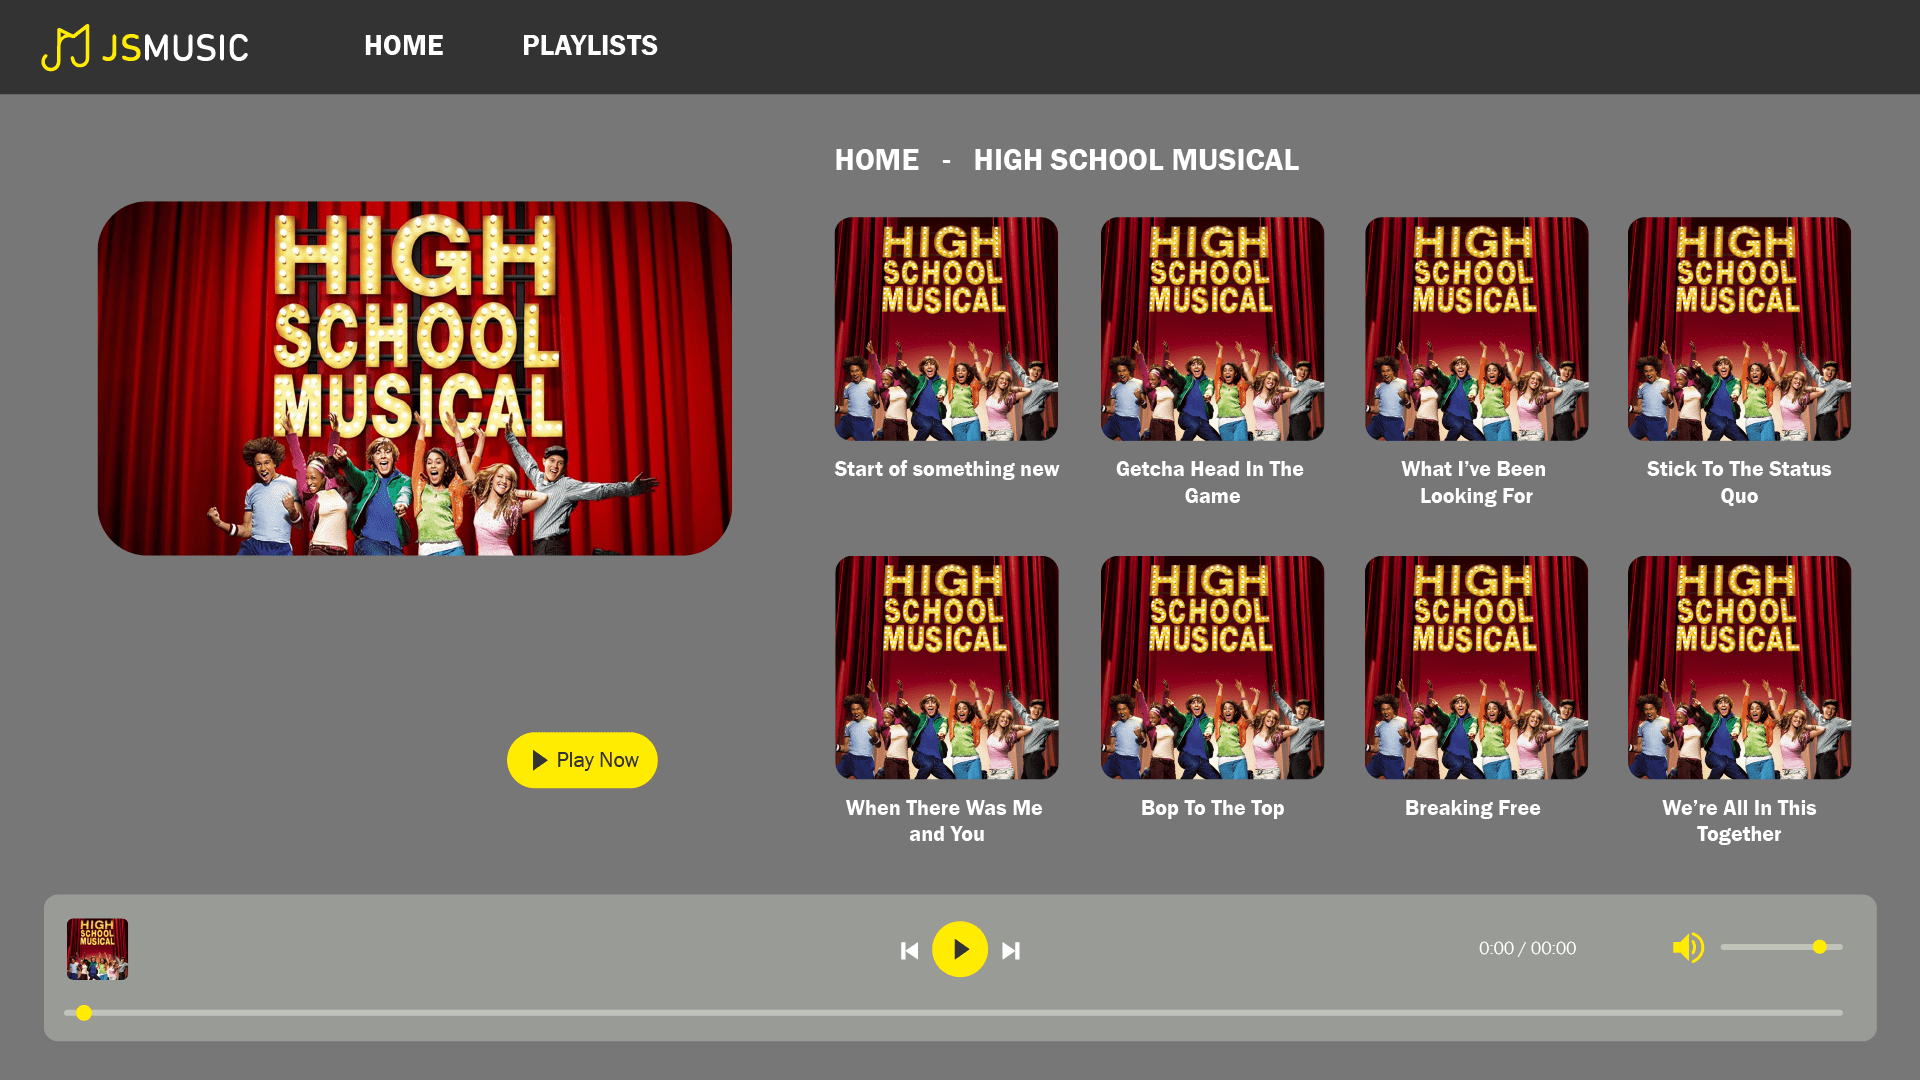
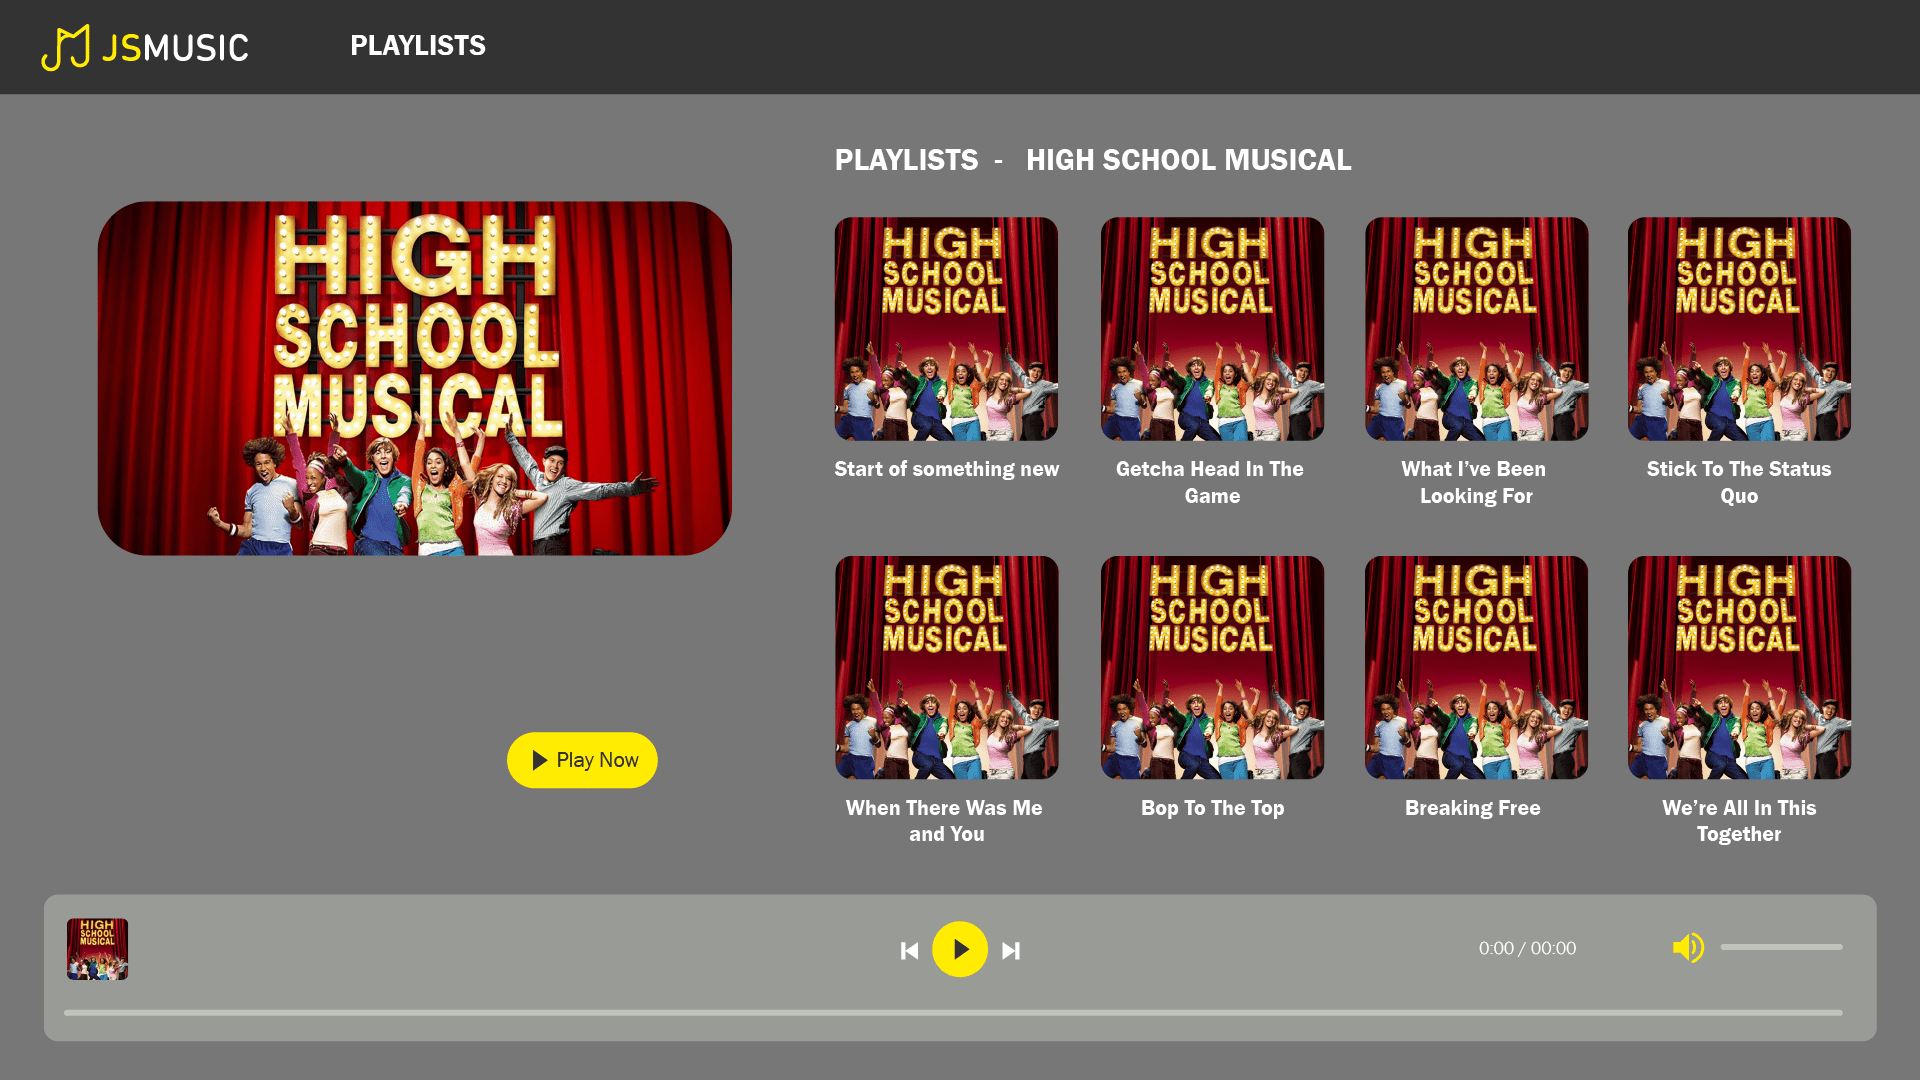
arreglitos

diff --git a/MusicPlayer.js b/MusicPlayer.js
@@ -1,5 +1,14 @@
 class MusicPlayer{
-    constructor(){
+    constructor(app){
+        this.app = app;
+        this.s1 = this.app.loadSound('sources/Start_Of_Something_New.mp3');
+        this.s2 = this.app.loadSound('sources/Getcha_Head_In_The_Game.mp3');
+        this.s3 = this.app.loadSound('sources/What-I-ve-Been-Looking-For.mp3');
+        this.s4 = this.app.loadSound('sources/Stick-to-the-Status-Quo.mp3');
+        this.s5 = this.app.loadSound('sources/When-There-Was-Me-and-You.mp3');
+        this.s6 = this.app.loadSound('sources/Bop-To-The-Top.mp3');
+        this.s7 = this.app.loadSound('sources/Breaking-Free.mp3');
+        this.s8 = this.app.loadSound('sources/We_re-All-In-This-Together.mp3');
         this.playlists = [];
         this.init();
     }
@@ -9,61 +18,120 @@ class MusicPlayer{
                 name:'Start of something new',
                 year:2006,
                 duration: 197,
-                artist:'Vanessa Hudgens & Zac Efron'
+                artist:'Vanessa Hudgens & Zac Efron',
+                audio: this.s1
             }),
             new Song({
                 name:'Getcha Head In The Game',
                 year:2006,
                 duration: 148,
-                artist:'Drew Seeley'
+                artist:'Drew Seeley',
+                audio: this.s2
             }),
             new Song({
                 name:'What Ive Been Looking For',
                 year:2006,
                 duration: 124,
-                artist:'Ashley Tisdale & Lucas Grabeel'
+                artist:'Ashley Tisdale & Lucas Grabeel',
+                audio: this.s3
             }),
             new Song({
                 name:'Stick To The Status Quo',
                 year:2006,
                 duration: 268,
-                artist:'Cast of HSM'
+                artist:'Cast of HSM',
+                audio: this.s4
             }),
             new Song({
                 name:'When There Was Me and You',
                 year:2006,
                 duration: 180,
-                artist:'Vanessa Hudgens'
+                artist:'Vanessa Hudgens',
+                audio: this.s5
             }),
             new Song({
                 name:'Bop-To-The-Top',
                 year:2006,
                 duration: 108,
-                artist:'Ashley Tisdale & Lucas Grabeel'
+                artist:'Ashley Tisdale & Lucas Grabeel',
+                audio: this.s6
             }),
             new Song({
                 name:'Breaking Free',
                 year:2006,
                 duration: 207,
-                artist:'Vanessa Hudgens & Zac Efron'
+                artist:'Vanessa Hudgens & Zac Efron',
+                audio: this.s7
             }),
             new Song({
                 name:'We re All In This Together',
                 year:2006,
                 duration: 231,
-                artist:'Vanessa Hudgens, Zac Efron, Lucas Grabeel, Ashley Tisdale'
+                artist:'Vanessa Hudgens, Zac Efron, Lucas Grabeel, Ashley Tisdale',
+                audio: this.s8
             }),
         ]))
 
     }
-    findPlayList(){
-        
-    }
-    
-    play(playListName){
-        console.log('reproductor reproduciendo la playlist '+ playListName)
-        const playList = this.findPlayList(playListName);
-        playList.play();
+
+    playSongBySong() {
+        if (mouseX > 840 && mouseY > 218 && mouseX < 1053 && mouseY < 434) {
+            if (this.s1.isPlaying()) {
+                this.s1.stop();
+            }else{
+                this.s1.play();
+            }
+        }
+        if (mouseX > 1104 && mouseY > 218 && mouseX < 1319 && mouseY < 434) {
+            if (this.s2.isPlaying()) {
+                this.s2.stop();
+            }else{
+                this.s2.play();
+            }
+        }
+        if (mouseX > 1370 && mouseY > 218 && mouseX < 1583 && mouseY < 434) {
+            if (this.s3.isPlaying()) {
+                this.s3.stop();
+            }else{
+                this.s3.play();
+            }
+        }
+        if (mouseX > 1633 && mouseY > 218 && mouseX < 1843 && mouseY < 434) {
+            if (this.s4.isPlaying()) {
+                this.s4.stop();
+            }else{
+                this.s4.play();
+            }
+        }
+        if (mouseX > 840 && mouseY > 559 && mouseX < 1053 && mouseY < 773) {
+            if (this.s5.isPlaying()) {
+                this.s5.stop();
+            }else{
+                this.s5.play();
+            }
+        }
+        if (mouseX > 1104 && mouseY > 559 && mouseX < 1319 && mouseY < 773) {
+            if (this.s6.isPlaying()) {
+                this.s6.stop();
+            }else{
+                this.s6.play();
+            }
+        }
+        if (mouseX > 1370 && mouseY > 559 && mouseX < 1583 && mouseY < 773) {
+            if (this.s7.isPlaying()) {
+                this.s7.stop();
+            }else{
+                this.s7.play();
+            }
+        }
+        if (mouseX > 1633 && mouseY > 559 && mouseX < 1843 && mouseY < 773) {
+            if (this.s8.isPlaying()) {
+                this.s8.stop();
+            }else{
+                this.s8.play();
+            }
+        }
+
     }
 
 }

diff --git a/Logic.js b/Logic.js
@@ -3,17 +3,9 @@ class Logic {
         this.app = app;
         this.home = this.app.loadImage('sources/home.png');
         this.hsm1 = this.app.loadImage('sources/HSM1.png');
-        this.s1 = this.app.loadSound('sources/Start_Of_Something_New.mp3');
-        this.s2 = this.app.loadSound('sources/Getcha_Head_In_The_Game.mp3');
-        this.s3 = this.app.loadSound('sources/What-I-ve-Been-Looking-For.mp3');
-        this.s4 = this.app.loadSound('sources/Stick-to-the-Status-Quo.mp3');
-        this.s5 = this.app.loadSound('sources/When-There-Was-Me-and-You.mp3');
-        this.s6 = this.app.loadSound('sources/Bop-To-The-Top.mp3');
-        this.s7 = this.app.loadSound('sources/Breaking-Free.mp3');
-        this.s8 = this.app.loadSound('sources/We_re-All-In-This-Together.mp3');
-        this.player = new MusicPlayer();
+        this.hsm2 = this.app.loadImage('sources/HSM2.png');
+        this.hsm3 = this.app.loadImage('sources/HSM3.png');
         this.screen = 0;
-        this.songs = [this.s1,this.s2,this.s3,this.s4,this.s5,this.s6,this.s7,this.s8];
     }
 
     showScreen() {
@@ -24,67 +16,13 @@ class Logic {
             case 1:
                 this.app.image(this.hsm1, 0, 0);
                 break;
+            case 2:
+                this.app.image(this.hsm2, 0, 0);
+                break;
+            case 3:
+                this.app.image(this.hsm3, 0, 0);
+                break;
         }
-    }
-
-    playSongBySong() {
-        if (mouseX > 840 && mouseY > 218 && mouseX < 1053 && mouseY < 434) {
-            if (this.s1.isPlaying()) {
-                this.s1.stop();
-            }else{
-                this.s1.play();
-            }
-        }
-        if (mouseX > 1104 && mouseY > 218 && mouseX < 1319 && mouseY < 434) {
-            if (this.s2.isPlaying()) {
-                this.s2.stop();
-            }else{
-                this.s2.play();
-            }
-        }
-        if (mouseX > 1370 && mouseY > 218 && mouseX < 1583 && mouseY < 434) {
-            if (this.s3.isPlaying()) {
-                this.s3.stop();
-            }else{
-                this.s3.play();
-            }
-        }
-        if (mouseX > 1633 && mouseY > 218 && mouseX < 1843 && mouseY < 434) {
-            if (this.s4.isPlaying()) {
-                this.s4.stop();
-            }else{
-                this.s4.play();
-            }
-        }
-        if (mouseX > 840 && mouseY > 559 && mouseX < 1053 && mouseY < 773) {
-            if (this.s5.isPlaying()) {
-                this.s5.stop();
-            }else{
-                this.s5.play();
-            }
-        }
-        if (mouseX > 1104 && mouseY > 559 && mouseX < 1319 && mouseY < 773) {
-            if (this.s6.isPlaying()) {
-                this.s6.stop();
-            }else{
-                this.s6.play();
-            }
-        }
-        if (mouseX > 1370 && mouseY > 559 && mouseX < 1583 && mouseY < 773) {
-            if (this.s7.isPlaying()) {
-                this.s7.stop();
-            }else{
-                this.s7.play();
-            }
-        }
-        if (mouseX > 1633 && mouseY > 559 && mouseX < 1843 && mouseY < 773) {
-            if (this.s8.isPlaying()) {
-                this.s8.stop();
-            }else{
-                this.s8.play();
-            }
-        }
-
     }
 
 }

diff --git a/sketch.js b/sketch.js
@@ -1,8 +1,10 @@
 let logic;
+let player;
 
 function setup() {
   createCanvas(1920, 1080);
   logic = new Logic(this);
+  player = new MusicPlayer(this);
 }
 
 function draw() {
@@ -25,6 +27,21 @@ function mousePressed() {
         logic.screen = 3;
       }
       break;
+    case 1:
+      if (mouseX > 347 && mouseY > 32 && mouseX < 486 && mouseY < 52) {
+        logic.screen = 0;
+      }
+      player.playSongBySong();
+      break;
+    case 2:
+      if (mouseX > 347 && mouseY > 32 && mouseX < 486 && mouseY < 52) {
+        logic.screen = 0;
+      }
+      break;
+    case 3:
+      if (mouseX > 347 && mouseY > 32 && mouseX < 486 && mouseY < 52) {
+        logic.screen = 0;
+      }
+      break;
   }
-  logic.playSongBySong();
 }

diff --git a/Song.js b/Song.js
@@ -1,9 +1,10 @@
 class Song {
-    constructor({name, year, duration, artist}) {
+    constructor({name, year, duration, artist,audio}) {
         this.duration = duration;
         this.name = name;
         this.artist = artist;
         this.year = year;
+        this.audio = audio; 
 
     }
     showAllSongs() {
